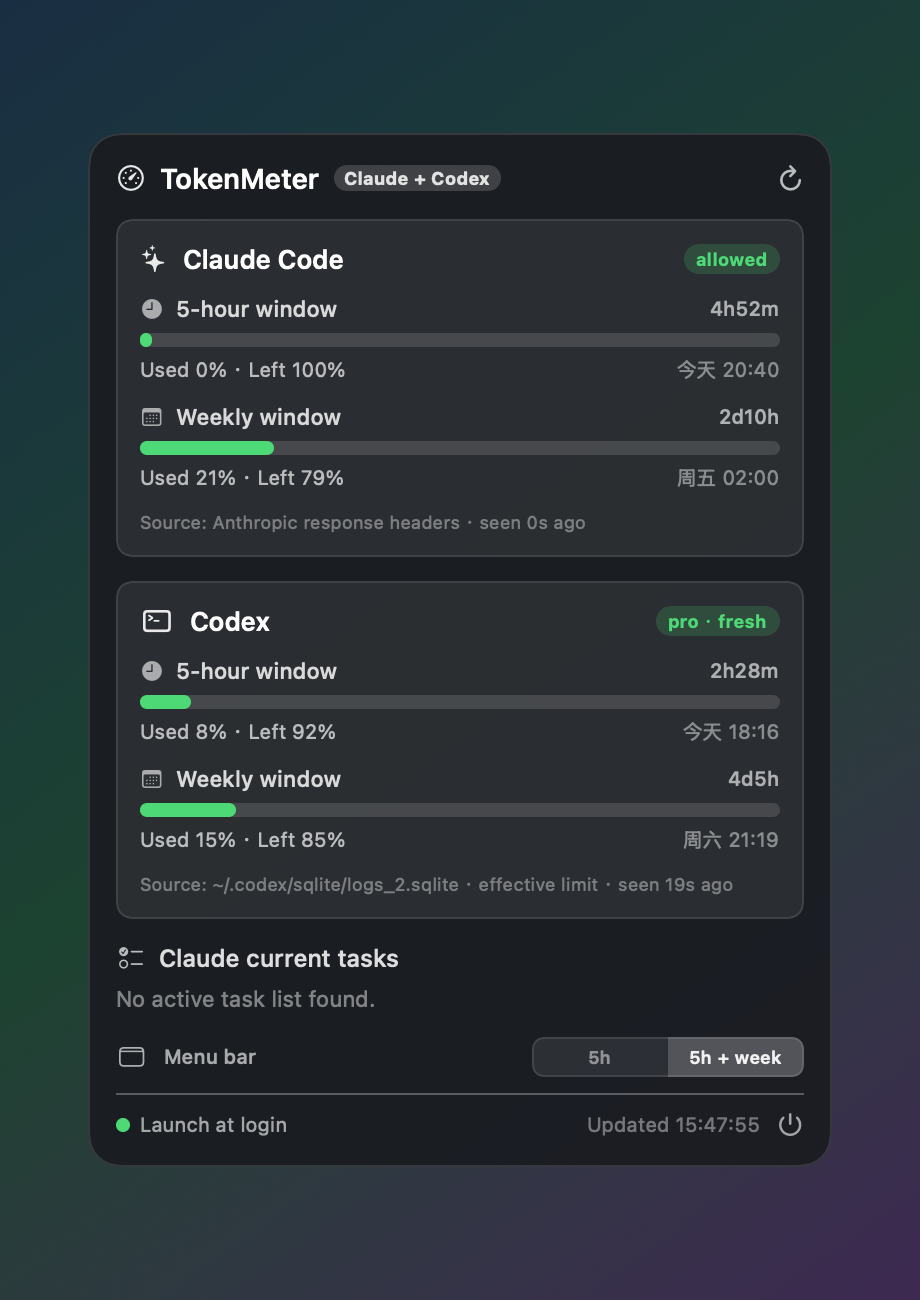
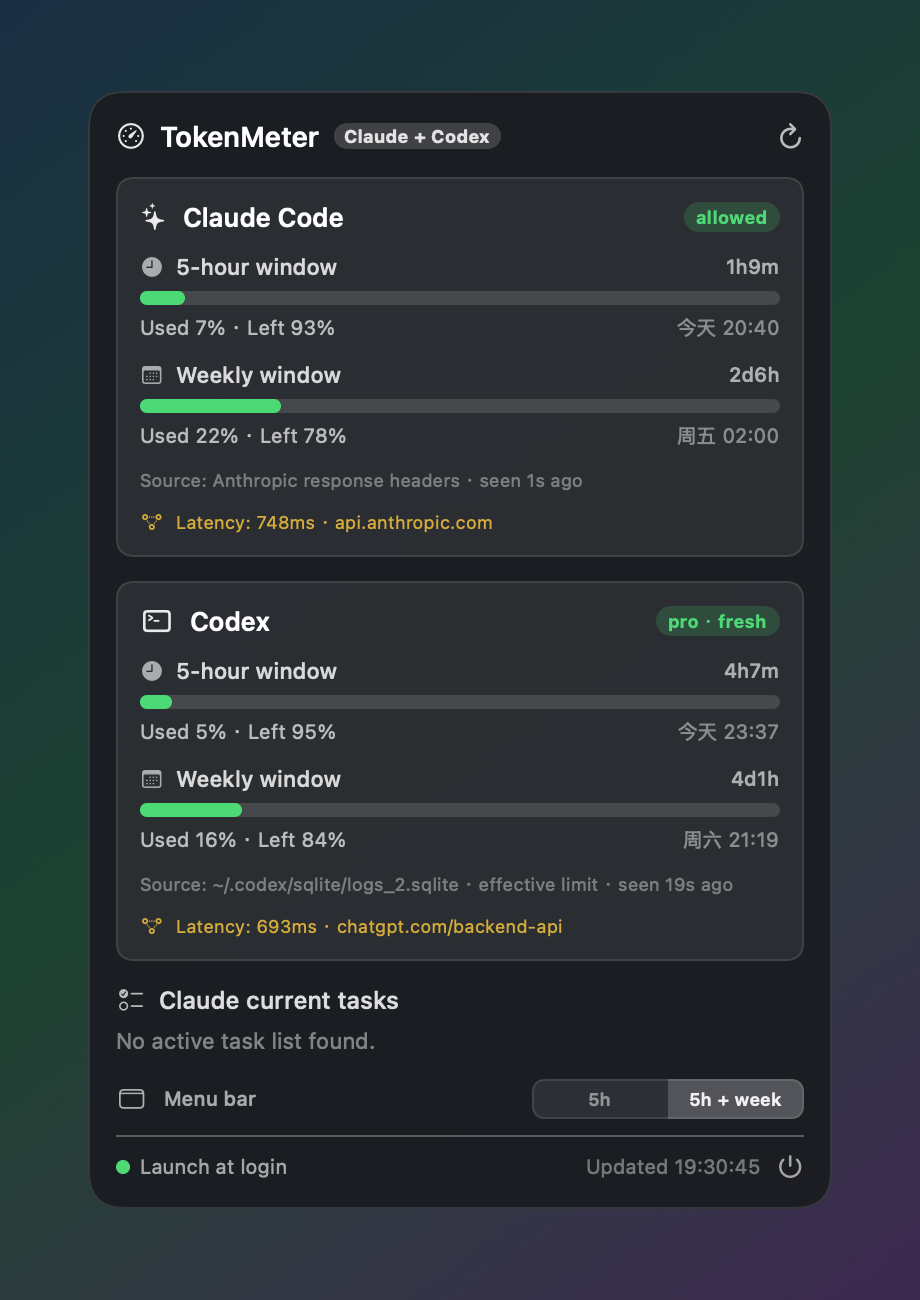
Add provider latency display

diff --git a/main.swift b/main.swift
@@ -48,6 +48,12 @@ func fmtAge(_ date: Date?) -> String {
     return "\(h / 24)d ago"
 }
 
+func fmtLatency(_ sample: LatencySample?) -> String {
+    guard let sample else { return "--ms" }
+    if let milliseconds = sample.milliseconds { return "\(milliseconds)ms" }
+    return "timeout"
+}
+
 // MARK: - Models
 
 enum ProviderFreshness: String {
@@ -68,6 +74,12 @@ struct UsageWindow: Identifiable {
     var windowMinutes: Int?
 }
 
+struct LatencySample {
+    var endpoint: String
+    var milliseconds: Int?
+    var error: String?
+}
+
 struct ProviderUsage: Identifiable {
     let id: String
     let name: String
@@ -82,6 +94,7 @@ struct ProviderUsage: Identifiable {
     var limitReached: Bool?
     var error: String?
     var hint: String?
+    var latency: LatencySample? = nil
 
     var worstUsed: Double? {
         let values = windows.compactMap(\.used)
@@ -611,6 +624,55 @@ enum CodexFetcher {
 
 // MARK: - Shared fetcher
 
+enum LatencyProbe {
+    static let endpoints: [String: (label: String, url: URL)] = [
+        "claude": ("api.anthropic.com", URL(string: "https://api.anthropic.com/")!),
+        "codex": ("chatgpt.com/backend-api", URL(string: "https://chatgpt.com/backend-api/")!)
+    ]
+
+    static func apply(to providers: [ProviderUsage]) -> [ProviderUsage] {
+        var result = providers
+        for index in result.indices {
+            guard let endpoint = endpoints[result[index].id] else { continue }
+            result[index].latency = measure(label: endpoint.label, url: endpoint.url)
+        }
+        return result
+    }
+
+    private static func measure(label: String, url: URL) -> LatencySample {
+        var request = URLRequest(url: url)
+        request.httpMethod = "HEAD"
+        request.timeoutInterval = 4
+        request.cachePolicy = .reloadIgnoringLocalAndRemoteCacheData
+
+        let config = URLSessionConfiguration.ephemeral
+        config.timeoutIntervalForRequest = 4
+        config.timeoutIntervalForResource = 4
+        let session = URLSession(configuration: config)
+        let semaphore = DispatchSemaphore(value: 0)
+        let start = DispatchTime.now()
+        var sample = LatencySample(endpoint: label, milliseconds: nil, error: nil)
+
+        session.dataTask(with: request) { _, response, error in
+            defer { semaphore.signal() }
+            let elapsed = DispatchTime.now().uptimeNanoseconds - start.uptimeNanoseconds
+            if response != nil {
+                sample.milliseconds = Int((Double(elapsed) / 1_000_000.0).rounded())
+            } else if let error {
+                sample.error = error.localizedDescription
+            } else {
+                sample.error = "No response"
+            }
+        }.resume()
+
+        if semaphore.wait(timeout: .now() + 5) == .timedOut {
+            sample.error = "Timeout"
+        }
+        session.invalidateAndCancel()
+        return sample
+    }
+}
+
 enum Fetcher {
     static func fetchTasks() -> [TaskItem] {
         let fm = FileManager.default
@@ -640,8 +702,9 @@ enum Fetcher {
     }
 
     static func fetchAll() -> FetchResult {
-        FetchResult(
-            providers: [ClaudeFetcher.fetch(), CodexFetcher.fetch()],
+        let providers = LatencyProbe.apply(to: [ClaudeFetcher.fetch(), CodexFetcher.fetch()])
+        return FetchResult(
+            providers: providers,
             tasks: fetchTasks()
         )
     }
@@ -728,6 +791,18 @@ struct ProviderCard: View {
                     .truncationMode(.middle)
             }
 
+            if let latency = provider.latency {
+                HStack(spacing: 6) {
+                    Image(systemName: "point.3.connected.trianglepath.dotted")
+                        .font(.system(size: 9, weight: .semibold))
+                    Text("Latency: \(fmtLatency(latency)) · \(latency.endpoint)")
+                        .font(.system(size: 9))
+                        .lineLimit(1)
+                        .truncationMode(.middle)
+                }
+                .foregroundColor(latencyColor(latency).opacity(0.82))
+            }
+
             if let error = provider.error {
                 Text(error)
                     .font(.system(size: 10))
@@ -778,6 +853,15 @@ struct ProviderCard: View {
         case .stale: return Color(red: 0.98, green: 0.78, blue: 0.24)
         case .missingToken, .unavailable, .error: return Color(red: 0.98, green: 0.52, blue: 0.32)
         }
+    }
+
+    private func latencyColor(_ latency: LatencySample) -> Color {
+        guard let milliseconds = latency.milliseconds else {
+            return Color(red: 0.98, green: 0.52, blue: 0.32)
+        }
+        if milliseconds <= 300 { return Color(red: 0.30, green: 0.85, blue: 0.46) }
+        if milliseconds <= 1000 { return Color(red: 0.98, green: 0.78, blue: 0.24) }
+        return Color(red: 0.98, green: 0.52, blue: 0.32)
     }
 
     private func windowRow(_ window: UsageWindow) -> some View {
@@ -1179,11 +1263,12 @@ final class AppDelegate: NSObject, NSApplicationDelegate {
 
         switch state.menuBarMode {
         case .fiveHour:
-            return "\(prefix)\(provider.shortName) \(fmtPct(left(for: provider, windowID: "5h")))"
+            let fiveHour = fmtPct(left(for: provider, windowID: "5h"))
+            return "\(prefix)\(provider.shortName) \(fiveHour) \(fmtLatency(provider.latency))"
         case .fiveHourAndWeekly:
             let fiveHour = fmtPct(left(for: provider, windowID: "5h"))
             let weekly = fmtPct(left(for: provider, windowID: "weekly"))
-            return "\(prefix)\(provider.shortName) \(fiveHour)/\(weekly)"
+            return "\(prefix)\(provider.shortName) \(fiveHour)/\(weekly) \(fmtLatency(provider.latency))"
         }
     }
 
@@ -1245,9 +1330,9 @@ final class AppDelegate: NSObject, NSApplicationDelegate {
     private func menuBarTooltip() -> String {
         switch state.menuBarMode {
         case .fiveHour:
-            return "TokenMeter shows remaining 5-hour quota. Orange <=20%, red <=10%."
+            return "TokenMeter shows remaining 5-hour quota and HTTPS latency. Orange <=20%, red <=10%."
         case .fiveHourAndWeekly:
-            return "TokenMeter shows remaining 5-hour/weekly quota. Orange <=20%, red <=10%."
+            return "TokenMeter shows remaining 5-hour/weekly quota and HTTPS latency. Orange <=20%, red <=10%."
         }
     }
 

diff --git a/docs/TECHNICAL.md b/docs/TECHNICAL.md
@@ -168,12 +168,14 @@ This keeps TokenMeter honest:
 - no scraping browser sessions or private storage;
 - clear stale/unavailable state when the local snapshot is old.
 
+Latency probes are separate from quota probes. TokenMeter sends unauthenticated HTTPS `HEAD` requests to `https://api.anthropic.com/` and `https://chatgpt.com/backend-api/`, measures the round-trip time, and displays the result in milliseconds. These probes do not include user tokens and do not start model turns.
+
 ## 6. Build
 
 `build.sh` produces `TokenMeter.app`:
 
 - Bundle ID: `com.tokenmeter.TokenMeter`
-- Version: `2.0.6`
+- Version: `2.0.7`
 - App icon: generated from `assets/app-icon.png`
 - Menu-bar agent: `LSUIElement=true`
 - Minimum macOS: 14.0
@@ -358,12 +360,14 @@ OpenAI 公开 Codex 文档说明了计划用量窗口和 rate-limit 概念，但
 - 不抓浏览器会话或私有存储；
 - 本机快照过旧时明确显示 stale/unavailable。
 
+延迟探测与额度探测分开处理。TokenMeter 会向 `https://api.anthropic.com/` 和 `https://chatgpt.com/backend-api/` 发送不带认证信息的 HTTPS `HEAD` 请求，测量往返时间并以毫秒显示。这个探测不包含用户 token，也不会启动模型请求。
+
 ## 6. 构建
 
 `build.sh` 会生成 `TokenMeter.app`：
 
 - Bundle ID：`com.tokenmeter.TokenMeter`
-- 版本：`2.0.6`
+- 版本：`2.0.7`
 - App 图标：由 `assets/app-icon.png` 生成
 - 菜单栏代理：`LSUIElement=true`
 - 最低 macOS：14.0